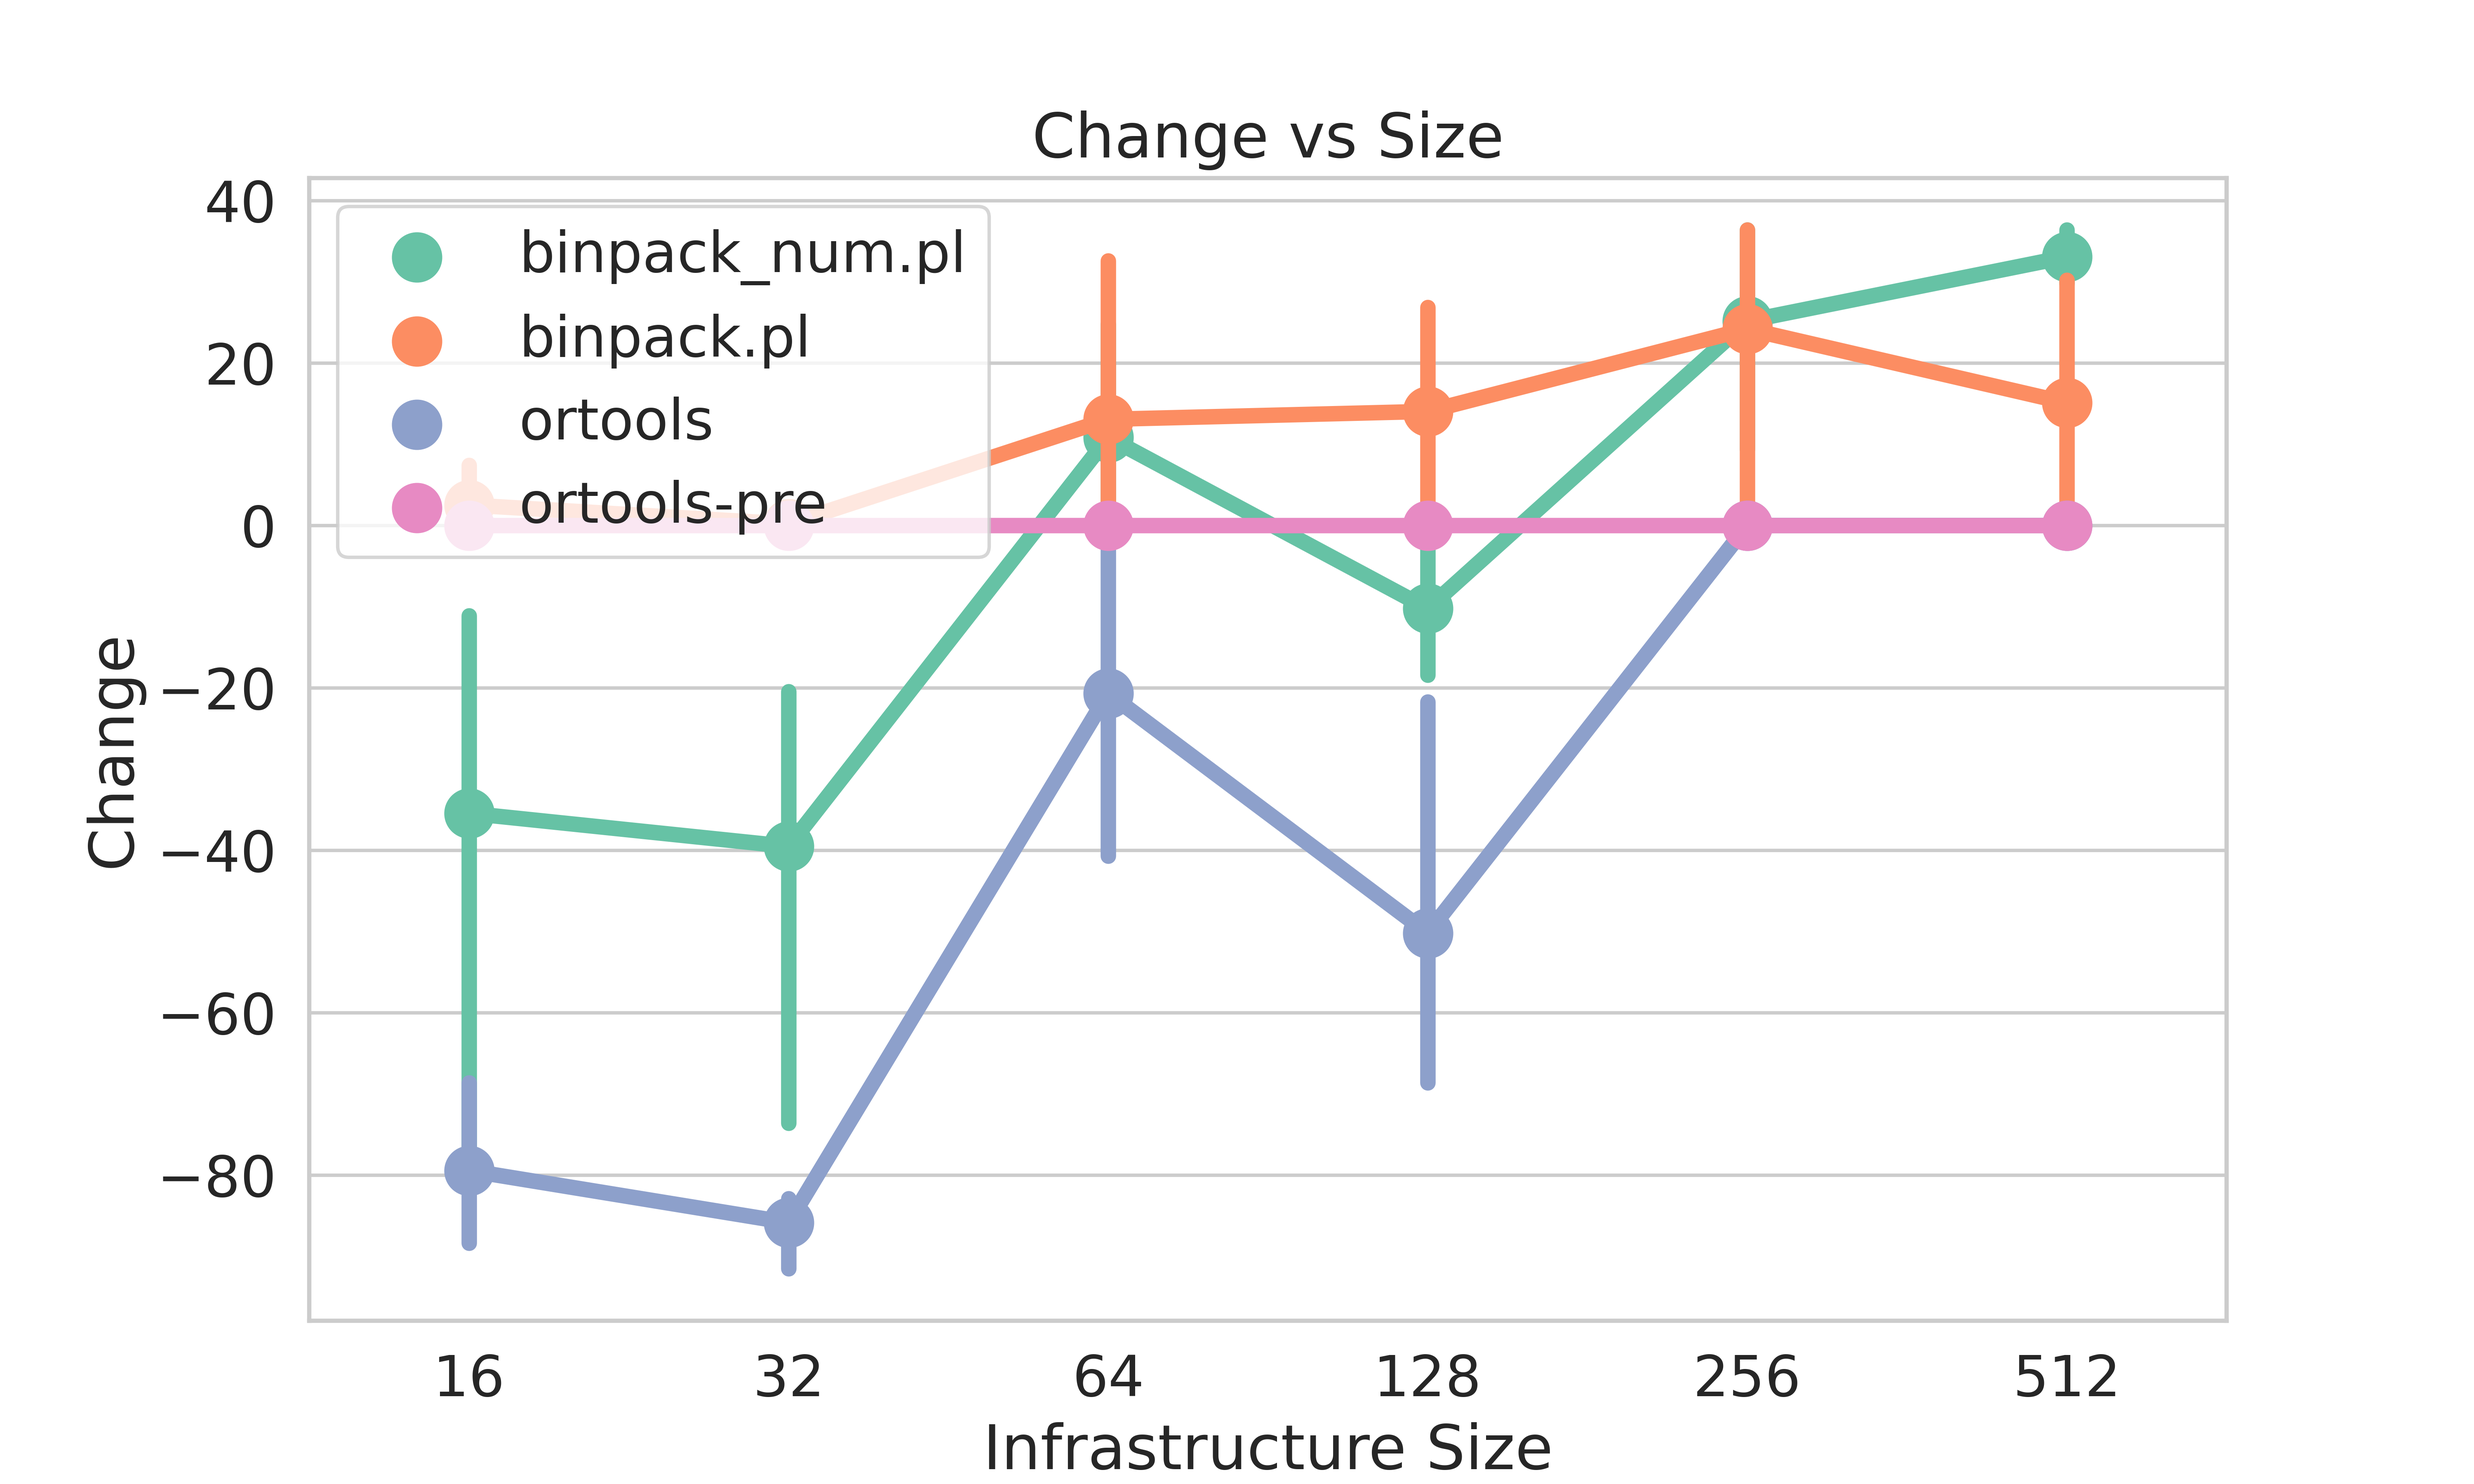
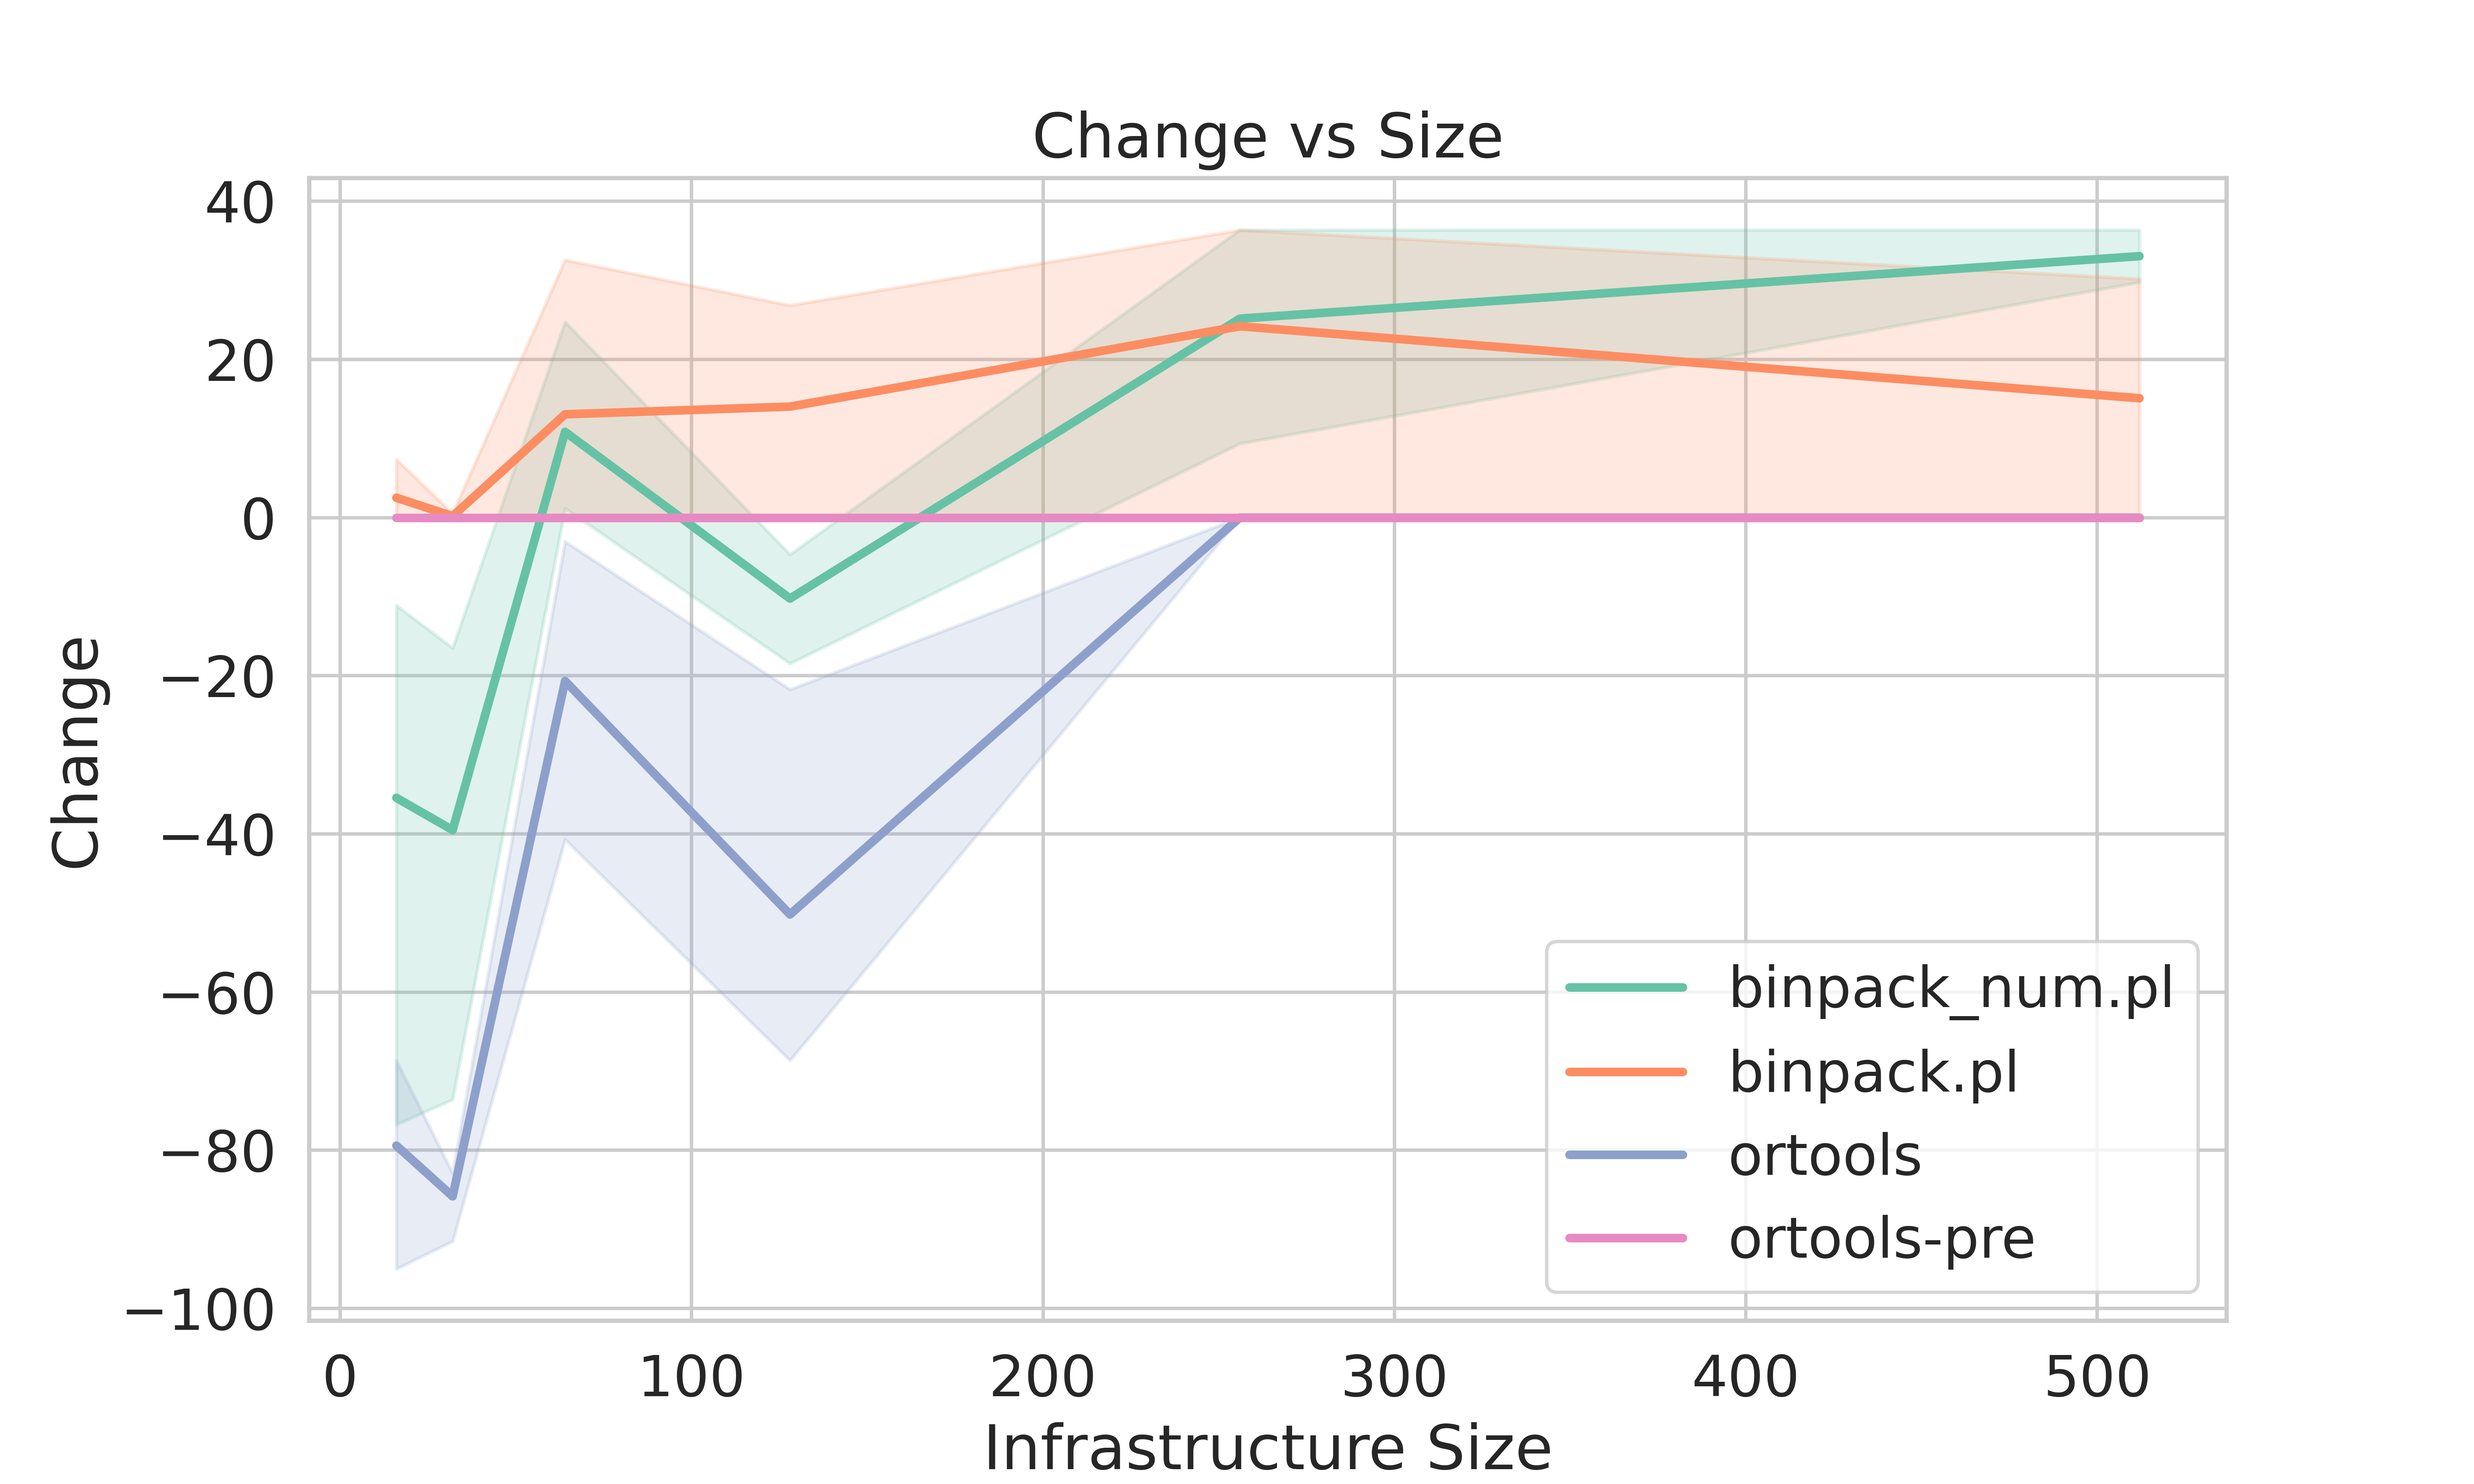
upload experiment img results

diff --git a/scripts/experiment.py b/scripts/experiment.py
@@ -8,6 +8,7 @@ from googleOR.classes.utils import DATA_DIR, EXPERIMENTS_DIR
 
 sizes = ["16", "32", "64", "128", "256", "512"]
 x = [i for i in range(len(sizes))]
+
 def time_vs(df):
     sns.set(style="whitegrid")
     sns.set_context("notebook", font_scale=1.5, rc={"lines.linewidth": 2.5})
@@ -27,12 +28,11 @@ def change_vs(df):
     sns.set(style="whitegrid")
     sns.set_context("notebook", font_scale=1.5, rc={"lines.linewidth": 2.5})
     plt.figure(figsize=(10, 6))
-
-    sns.pointplot(x=x, y="Change", data=df, hue="Version", palette="Set2", errorbar=False)
+    sns.lineplot(x="Size", y="Change", data=df, hue="Version", palette="Set2")
     plt.xlabel("Infrastructure Size")
     plt.ylabel("Change")
     plt.title("Change vs Size")
-    plt.legend(loc='upper left')
+    plt.legend(loc='lower right')
     plt.savefig(os.path.join(EXPERIMENTS_DIR, "change_vs_size.png"), dpi=600)
     plt.close()
     print("Change vs Size, DONE")
@@ -55,9 +55,6 @@ def main(df):
     time_vs(df)
     change_vs(df)
     bins_vs(df)
-
-    # bin_cost_plus(df)
-    # tradeoff_plus(df)
 
 if __name__ == '__main__':
     df = pd.read_csv(os.path.join(DATA_DIR, 'results.csv'))
